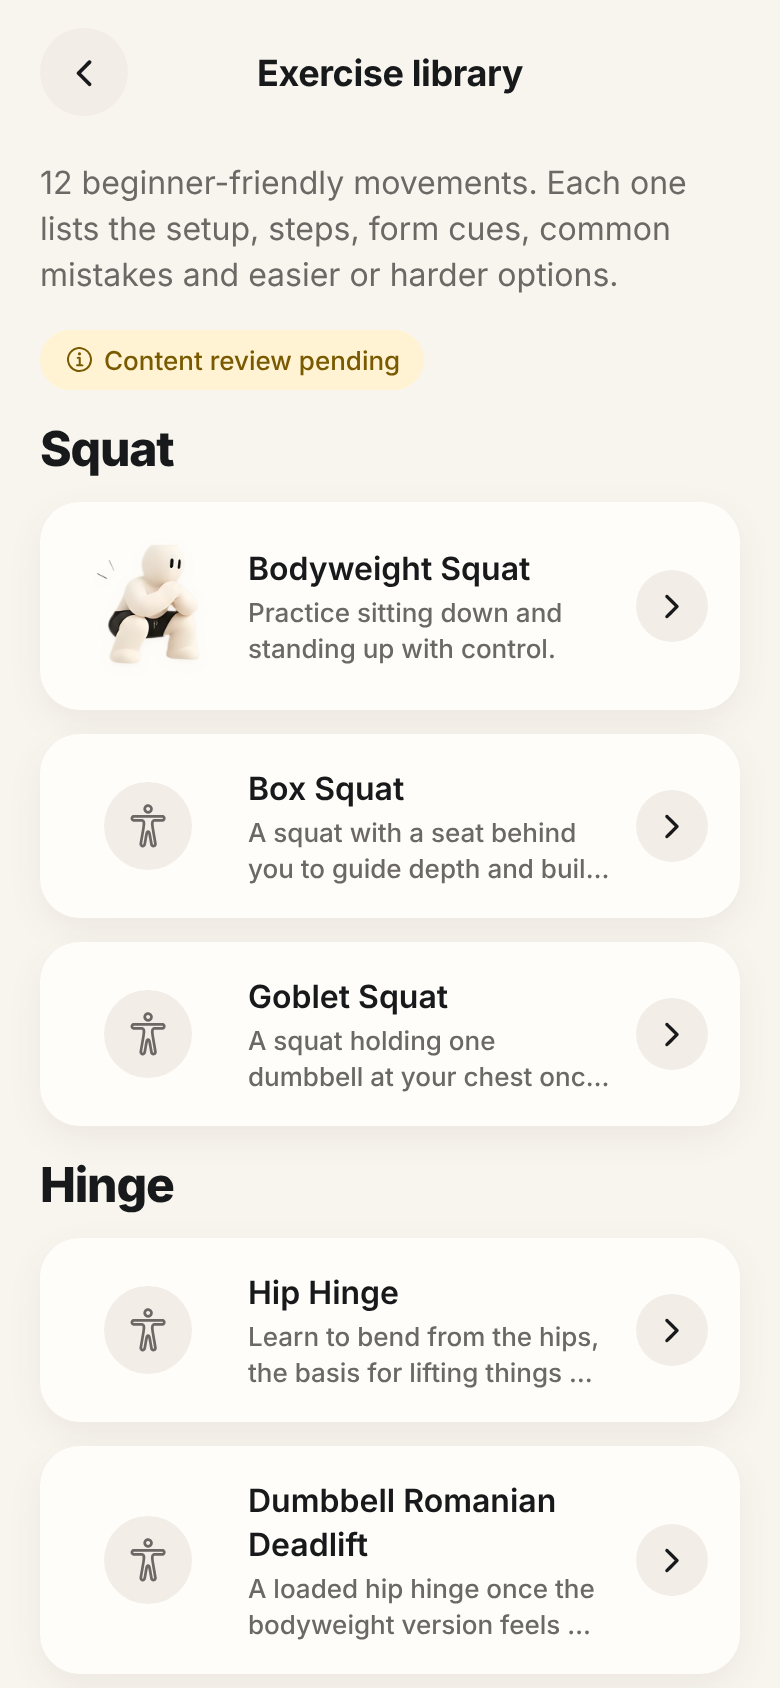
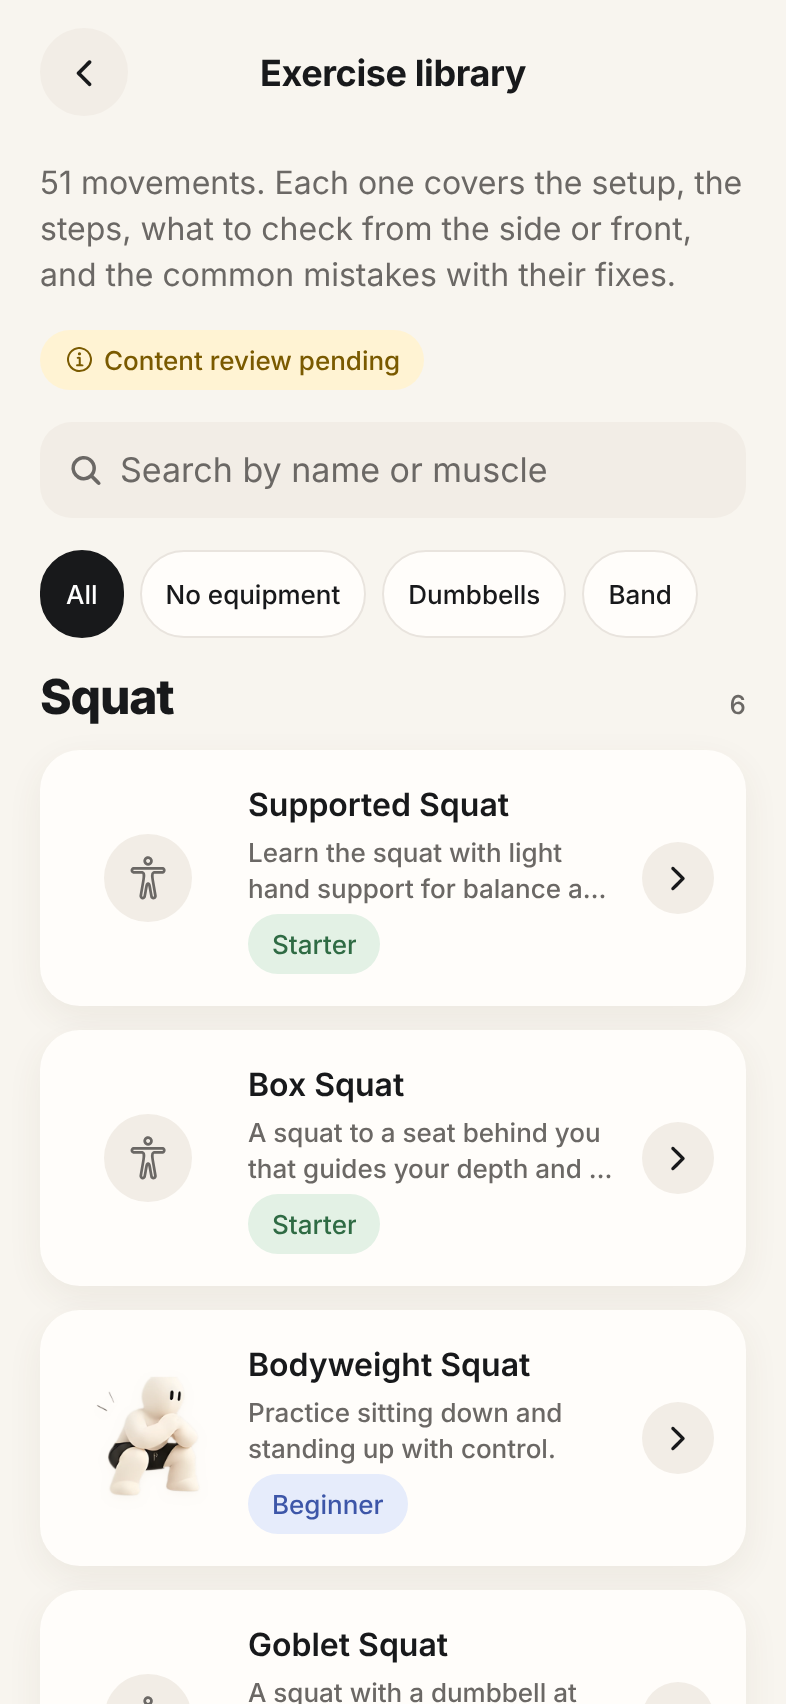
docs: library and exercise detail screenshots
Claude-Session: https://claude.ai/code/session_01GxvcnDqjGiTzFAnzHf84DC

diff --git a/docs/MVP_RELEASE_NOTES.md b/docs/MVP_RELEASE_NOTES.md
@@ -155,6 +155,8 @@ The founder asked for at least 40 movements, taught the way a coach teaches them
   - **Request:** issue #1, CC-011.
 - **Not done:** no art has been delivered yet, so the library shows the interim concept crops (squat, split squat, push-up variations, row) or a neutral icon.
 
+Screens (web build, 393pt): [library](screenshots/09-library.png), [search](screenshots/09b-library-search.png), [push-up detail, every section](screenshots/exercise-detail-push-up-393.png).
+
 ## Known gaps and placeholders
 
 - **Art is interim.** The mascot cut-outs come from 941×1672 concept images. They are upscaled for 3× screens, but they are not production exports. Hip hinge, glute bridge, plank, box/goblet squat, RDL, band row and prone Y raise have no approved pose, so they use a neutral icon tile. Production exports are requested in issue #1 (`CC-001`).
